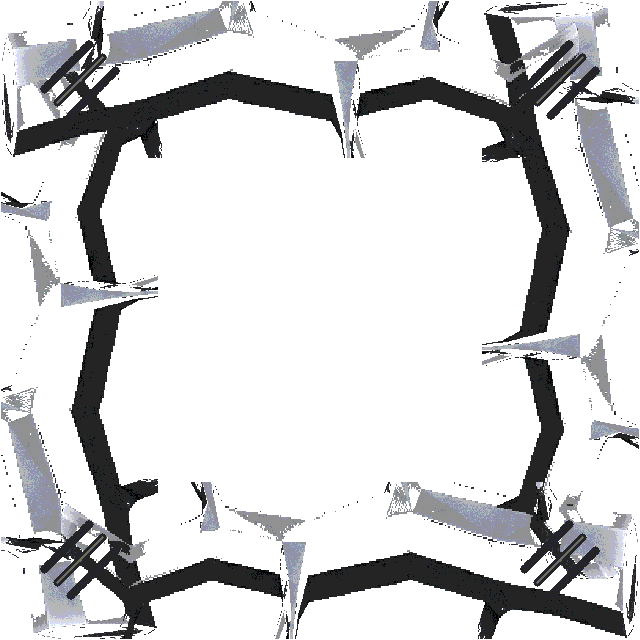
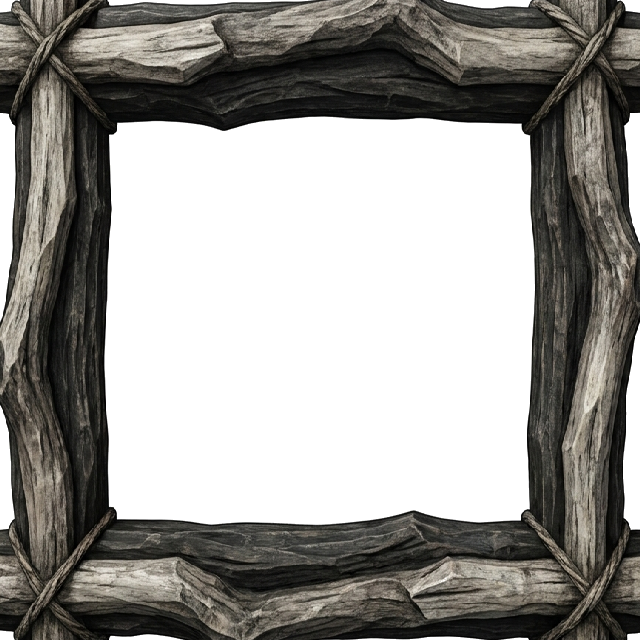
art: replace the thin lashed-stick UI frame with a solid gnarled-log frame (much more wood)
new AI-generated solid wood picture-frame (thick logs + corner lashings, keyed off white), sliced to a 640px border-image at slice 100. Kills the 'too much black, not enough wood' read on the tutorial/inspect panels and wraps the dock + menu cards in solid wood. Frame source processed straight to assets/ui/frame-branch.png (bypasses the stick-lashing path in makeframe.js).

diff --git a/game/index.html b/game/index.html
@@ -176,7 +176,7 @@
   #menu .mtag{color:var(--ember-soft);letter-spacing:3px;text-transform:uppercase;font-size:12px;margin:6px 0 24px;text-align:center}
   #menu .cards{display:flex;gap:24px;flex-wrap:wrap;justify-content:center;align-items:stretch;max-width:864px;width:100%}
   .mcard{flex:0 1 350px;max-width:92vw;cursor:pointer;position:relative;border:28px solid transparent;
-    border-image:url('assets/ui/frame-branch.png') 160 stretch;background:#0a0b0ff8;
+    border-image:url('assets/ui/frame-branch.png') 100 stretch;background:#0a0b0ff8;
     display:flex;flex-direction:column;transition:transform .14s ease,filter .14s ease;filter:saturate(.92)}
   .mcard:hover{transform:translateY(-4px);filter:saturate(1.06) brightness(1.05)}
   .mcard .pic{height:182px;background-size:cover;background-position:center 56%;position:relative}
@@ -235,7 +235,7 @@
      ============================================================ */
   #inspect,#goals,.modal,#dock{
     border:var(--wood,30px) solid transparent;
-    border-image:url('assets/ui/frame-branch.png') 160 stretch;
+    border-image:url('assets/ui/frame-branch.png') 100 stretch;   /* solid-log frame (slice ~100 of 640) */
     border-radius:0; backdrop-filter:none;
   }
   #inspect,#goals{--wood:36px; background:#160f08f7}   /* dark wood-brown interior + a thicker wood frame (was near-black with a thin border) */